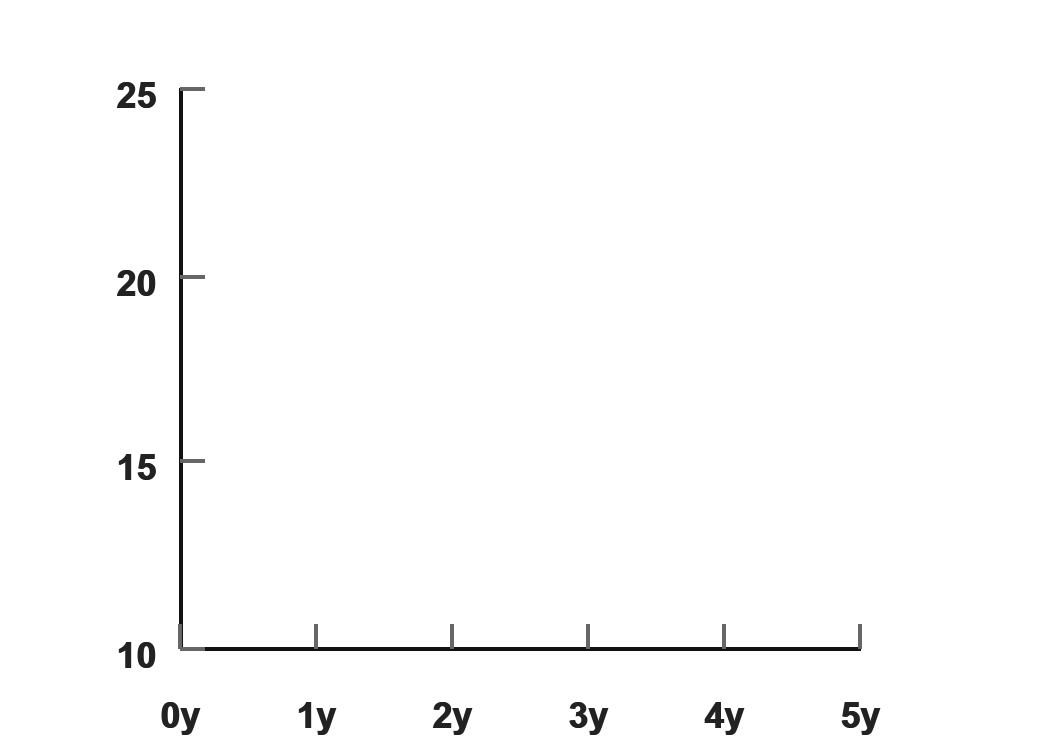
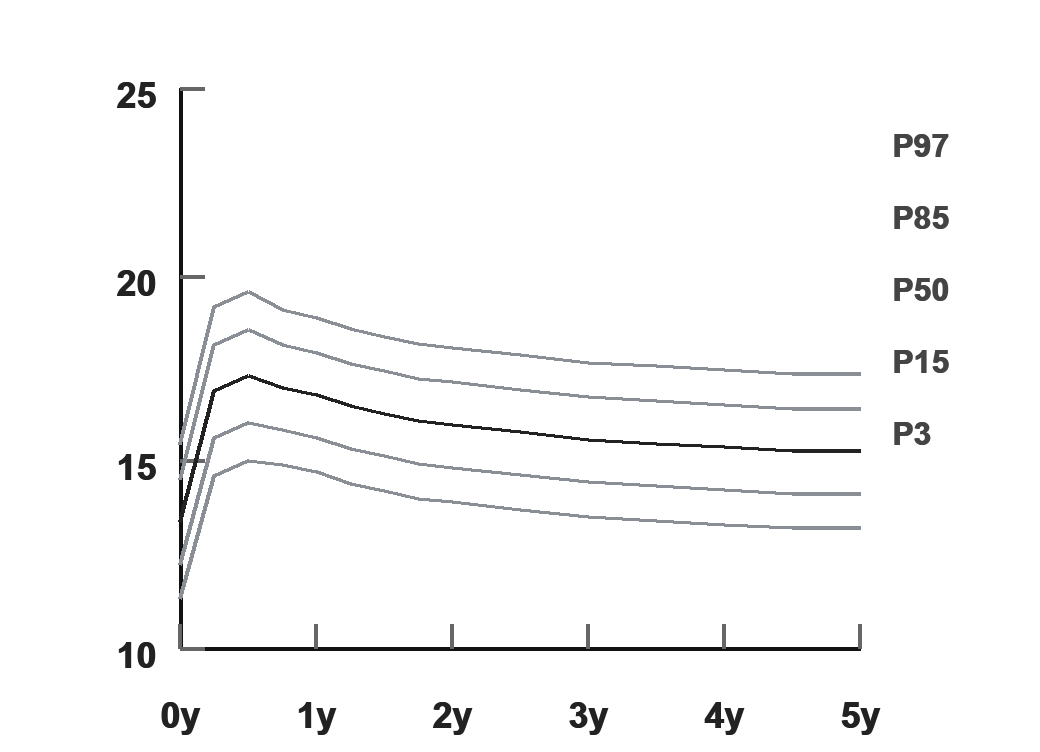
Add missing WHO percentile curves to 0-5 growth charts
The 0-5 age-range chart backgrounds (height/weight/BMI/head
circumference, boys+girls) have always rendered as bare axes with no
reference percentile curves, since generate_minimal_iap_svgs.py /
generate_minimal_iap_pngs.py only ever drew curves for age_mode
"years" (the 5-18 IAP charts). Add scripts/who_growth_standards.py
with WHO Child Growth Standards median/SD checkpoints (0-60 months)
and wire both generators to draw curves for age_mode "months" too.

Note: the (median, sd) values were entered from general training
knowledge of the published WHO 2006 standards, not transcribed live
from an official source in this environment -- worth spot-checking
against who.int before fully trusting clinically. weight-for-height
0-5 charts still have no curve data and remain unaffected.

Bump CHART_ASSET_VERSION so browsers fetch the corrected images
instead of previously-cached blank ones.

diff --git a/emr/kid/growth-chart-dashboard.html b/emr/kid/growth-chart-dashboard.html
@@ -1285,7 +1285,7 @@
     const menuToggle = document.getElementById('menu-toggle');
     const primaryNav = document.getElementById('primary-nav');
     const navLinks = [...document.querySelectorAll('#primary-nav .nav-link')];
-    const CHART_ASSET_VERSION = '2026-05-22-growth-recalibrated';
+    const CHART_ASSET_VERSION = '2026-07-15-who-0to5-curves-added';
 
     function presentElements(elements) {
       return Object.values(elements).filter(Boolean);

diff --git a/emr/template/growth-chart-dashboard.html b/emr/template/growth-chart-dashboard.html
@@ -1285,7 +1285,7 @@
     const menuToggle = document.getElementById('menu-toggle');
     const primaryNav = document.getElementById('primary-nav');
     const navLinks = [...document.querySelectorAll('#primary-nav .nav-link')];
-    const CHART_ASSET_VERSION = '2026-05-22-growth-recalibrated';
+    const CHART_ASSET_VERSION = '2026-07-15-who-0to5-curves-added';
 
     function presentElements(elements) {
       return Object.values(elements).filter(Boolean);

diff --git a/emr/kid/preview.html b/emr/kid/preview.html
@@ -1049,7 +1049,7 @@
     let preparedChartRecord = null;
     let activePrescriptionBranding = null;
     const patientMeasurementHistoryCache = new Map();
-    const CHART_ASSET_VERSION = '2026-05-22-growth-recalibrated';
+    const CHART_ASSET_VERSION = '2026-07-15-who-0to5-curves-added';
     const CHART_PREVIEW_VERSION = 'preview-rebuilt-2026-06-white-bg-bold-line';
     const CHART_RENDER_MAX_WIDTH = 1600;
     const CHART_RENDER_SCALE = 6;

diff --git a/emr/template/preview.html b/emr/template/preview.html
@@ -1049,7 +1049,7 @@
     let preparedChartRecord = null;
     let activePrescriptionBranding = null;
     const patientMeasurementHistoryCache = new Map();
-    const CHART_ASSET_VERSION = '2026-05-22-growth-recalibrated';
+    const CHART_ASSET_VERSION = '2026-07-15-who-0to5-curves-added';
     const CHART_PREVIEW_VERSION = 'preview-rebuilt-2026-06-white-bg-bold-line';
     const CHART_RENDER_MAX_WIDTH = 1600;
     const CHART_RENDER_SCALE = 6;

diff --git a/emr/kid/prescription-growth-chart-dashboard.html b/emr/kid/prescription-growth-chart-dashboard.html
@@ -2732,7 +2732,7 @@
     let lastHistoryDebug = null;
     let isRestoringVitalsDraft = false;
     let vitalsDraftCloudTimer = 0;
-    const CHART_ASSET_VERSION = '2026-05-22-growth-recalibrated';
+    const CHART_ASSET_VERSION = '2026-07-15-who-0to5-curves-added';
     const CHART_PREVIEW_VERSION = 'preview-rebuilt-2026-06-white-bg-bold-line';
     const TEST_PAST_CHARTS_PATIENT_ID = 'TESTPAST001';
 

diff --git a/emr/template/prescription-growth-chart-dashboard.html b/emr/template/prescription-growth-chart-dashboard.html
@@ -2732,7 +2732,7 @@
     let lastHistoryDebug = null;
     let isRestoringVitalsDraft = false;
     let vitalsDraftCloudTimer = 0;
-    const CHART_ASSET_VERSION = '2026-05-22-growth-recalibrated';
+    const CHART_ASSET_VERSION = '2026-07-15-who-0to5-curves-added';
     const CHART_PREVIEW_VERSION = 'preview-rebuilt-2026-06-white-bg-bold-line';
     const TEST_PAST_CHARTS_PATIENT_ID = 'TESTPAST001';
 
